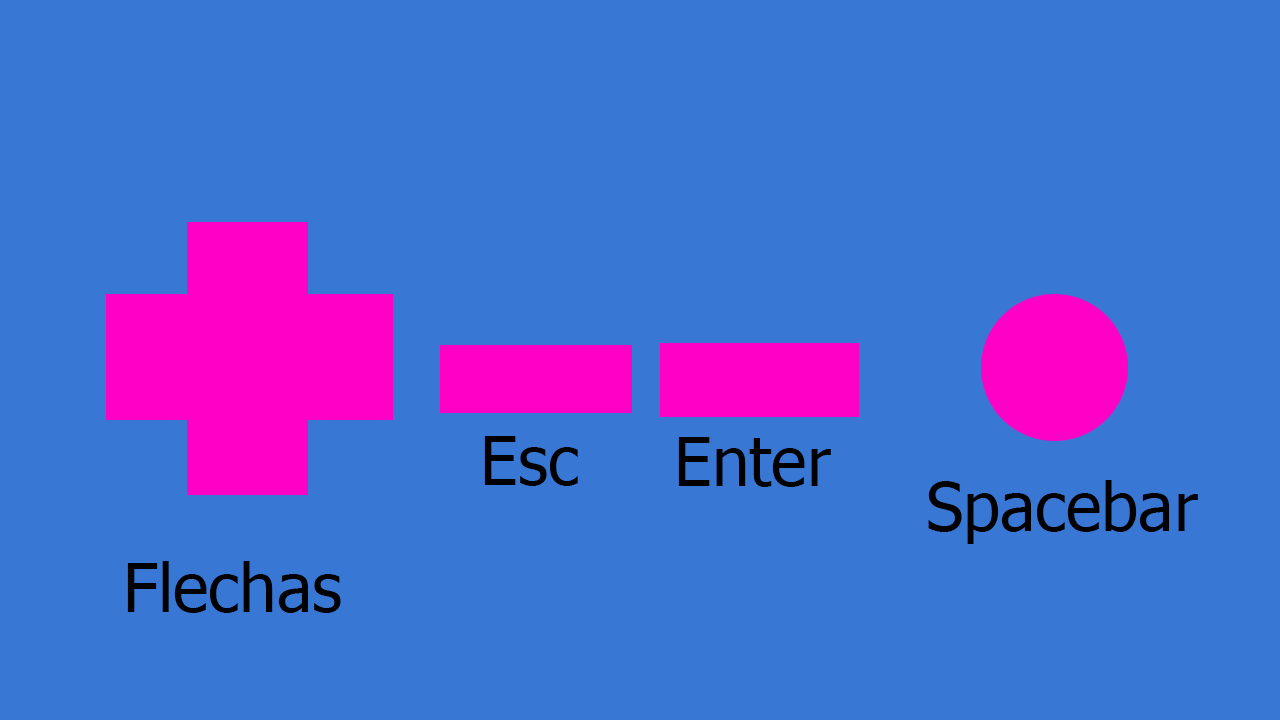
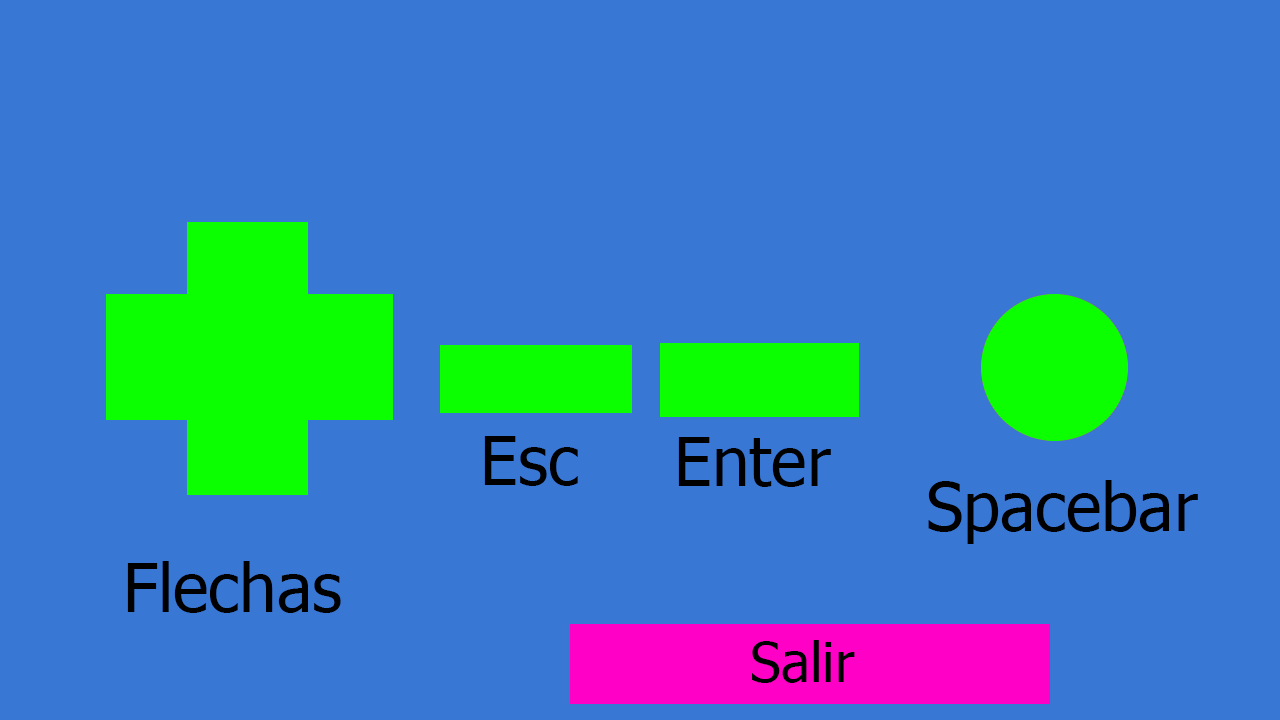
Modifique distancias en menu 2 y modifique fondos y salidas en sonido y controles

diff --git a/menu.py b/menu.py
@@ -1,7 +1,7 @@
 import pygame, sys
 import function
 
-def menu (screen,adress,ubication):
+def menu (screen,adress,ubication,amount):
     position = 0
     
     
@@ -27,9 +27,7 @@ def menu (screen,adress,ubication):
             if event.type == pygame.QUIT:
                 sys.exit()
 
-def start (screen,stop):
-
-    
+def start (screen,stop): 
 
     adress_menu1 = [['Image/start2.png','Image/options1.png','Image/exit1.png'],
                 ['Image/start1.png','Image/options2.png','Image/exit1.png'],
@@ -41,30 +39,51 @@ def start (screen,stop):
                 ['Image/controls1.png','Image/sound2.png','Image/return1.png'],
                 ['Image/controls1.png','Image/sound1.png','Image/return2.png']]
 
-    ubication_menu2 = [(400,400),(400,480),(400,560)]
+    ubication_menu2 = [(400,120),(400,280),(400,440)]
     
-    position = 0  #  <  >
-    screen.fill((255,255,255))
-    pygame.display.flip()
-
+    position  = 0  #  <  >
+    position2 = 0
     while not stop:
-        position = menu (screen,adress_menu1,ubication_menu1)
-        if position == 0:
-            stop = True
-        if position == 1:
-            position2 = menu (screen,adress_menu2,ubication_menu2)
-            
-            sanata = False
-            while not sanata:
-            
-                if position2 == 0:
-                    function.draw(screen,"Image/wallpaper_controls.png",(0,0))
+        
+            function.draw(screen,"Image/wallpaper_menu.png",(0,0))
+            function.draw(screen,"Image/title.png",(80,80))   
+            position = menu (screen,adress_menu1,ubication_menu1,3)
+            if position == 0:
+                stop = True
+            if position == 1:
+                sanata2 = False
+                while not sanata2:
+                
+                    function.draw(screen,"Image/wallpaper_menu2.png",(0,0))
+                    position2 = menu (screen,adress_menu2,ubication_menu2,3)
                     
-                if position2 == 1:
-                    function.draw(screen,"Image/wallpaper_sound.png",(0,0))
+                    sanata = False
+                    while not sanata:
                     
-                if position2 == 2:
-                    sanata = True
-        if position == 2:
-            sys.exit()
+                        if position2 == 0:
+                            function.draw(screen,"Image/wallpaper_controls.png",(0,0))
+                            for event in pygame.event.get():
+                                if event.type == pygame.KEYDOWN:
+                                    if event.key == pygame.K_RETURN:
+                                        sanata = True
+                                if event.type == pygame.QUIT:
+                                    sys.exit()                
+                        if position2 == 1:
+                            function.draw(screen,"Image/wallpaper_sound.png",(0,0))
+                            for event in pygame.event.get():
+                                if event.type == pygame.KEYDOWN:
+                                    if event.key == pygame.K_LEFT:
+                                        print("hay q sumar")
+                                    if event.key == pygame.K_RIGHT:
+                                        print ("hay q restar")
+                                    if event.key == pygame.K_RETURN:
+                                        sanata = True
+                                if event.type == pygame.QUIT:
+                                    sys.exit()
+
+                        if position2 == 2:
+                            sanata = True
+                            sanata2 = True
+            if position == 2:
+                sys.exit()
     

diff --git a/score.py b/score.py
@@ -12,7 +12,7 @@ def scores (screen,stop):
             print("Press SPACE to pause")
             
             if event.type == pygame.KEYDOWN:
-                if event.key == pygame.K_SPACE:
+                if event.key == pygame.K_SPACE or event.key == pygame.K_RETURN:
                     stop = True
             if event.type == pygame.QUIT:
                 sys.exit()

diff --git a/function.py b/function.py
@@ -6,4 +6,3 @@ def draw(screen,adress,position):
     pygame.display.flip()
 
 
-    
